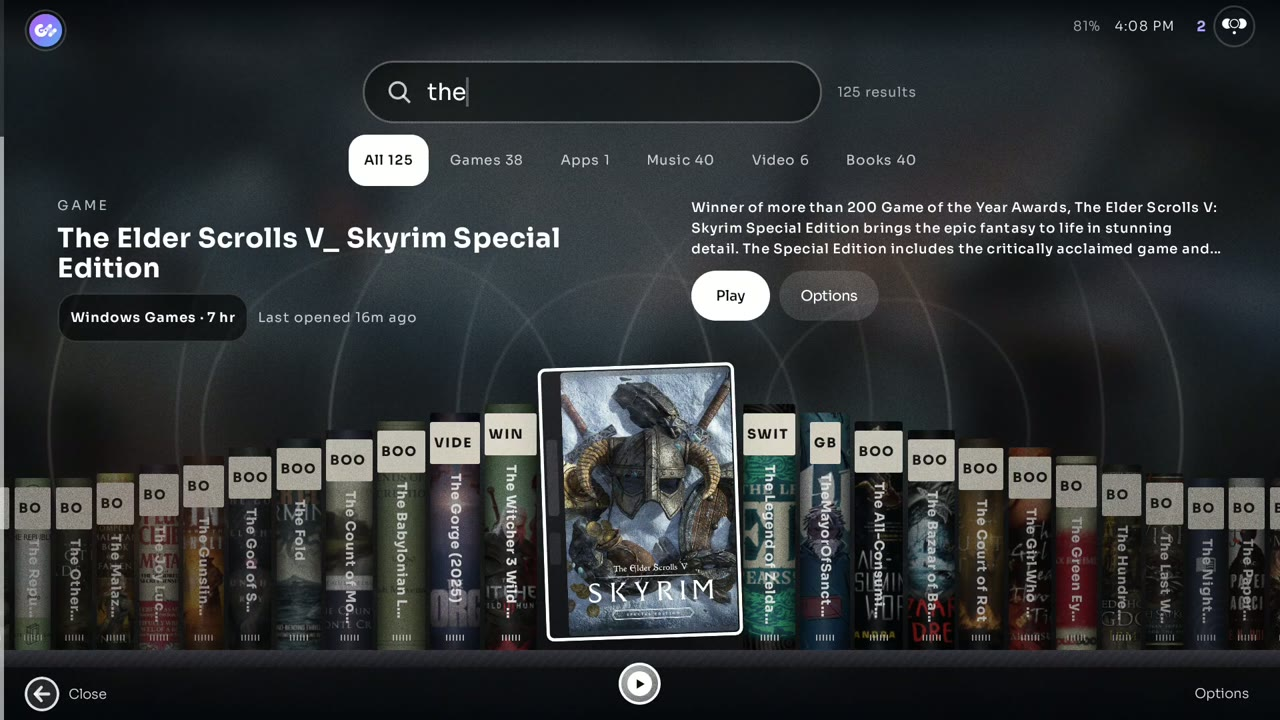
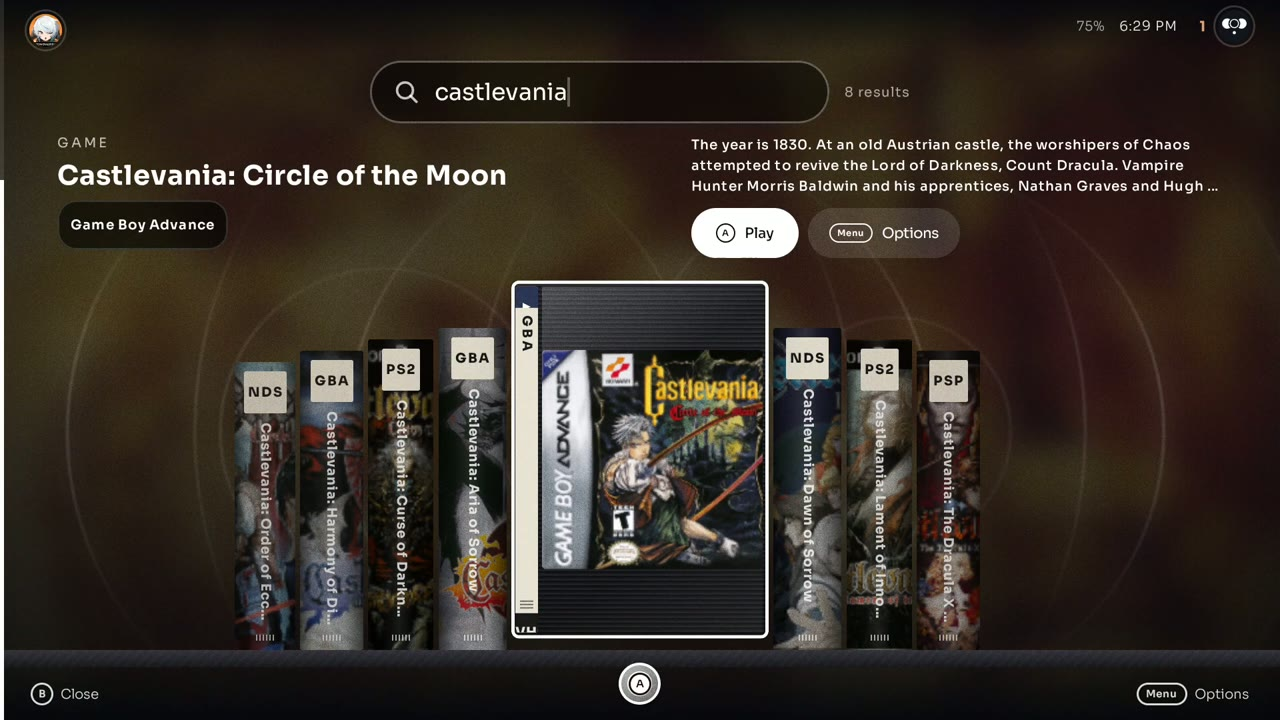
docs: App Drawer and Search screenshots and README for the VHS case
Verify: screenshots taken on the Konker from this build.

diff --git a/README.md b/README.md
@@ -102,13 +102,14 @@ anything destructive asks twice. **Game Info** shows play time, platform, screen
 ### The App Drawer and Search
 
 The **App Drawer** (RB) lists the focused app's details on the left (its name, kind, what is known
-about it, **Open** and **Options**) and every app as a case in three columns on the right, with a VHS
-spine saying what it is. Its sections (Recently Used, Apps, Emulators, Games) are icons in the top
+about it, **Open** and **Options**) and every app as a VHS case in three columns on the right, two
+whole rows at a time, with a spine saying what it is. A game's cover keeps its own shape on the case's
+ribbed plastic, so square Game Boy boxes and tall Switch covers both show whole. Its sections (Recently Used, Apps, Emulators, Games) are icons in the top
 bar; LT and RT move between them. The Games tab has a chip per system, Steam Games included, and a
 game's **≡** opens the same menu as on the crossbar.
 
-**Search** (Y or LB) puts every result on one shelf: the likeliest match stands in the middle as a
-whole case, the rest as spines fanning out to both sides, and left and right slide along it. LB and
+**Search** (Y or LB) puts every result on one shelf: the likeliest match stands in the middle as the
+same VHS case the drawer uses, the rest as spines fanning out to both sides, and left and right slide along it. LB and
 RB filter by kind (Games, Apps, Music, Video, Books). A newly installed app shows up straight away.
 
 A game's cover, everywhere it shows (the crossbar's cover rows, the drawer, Search and GameBoot), is
